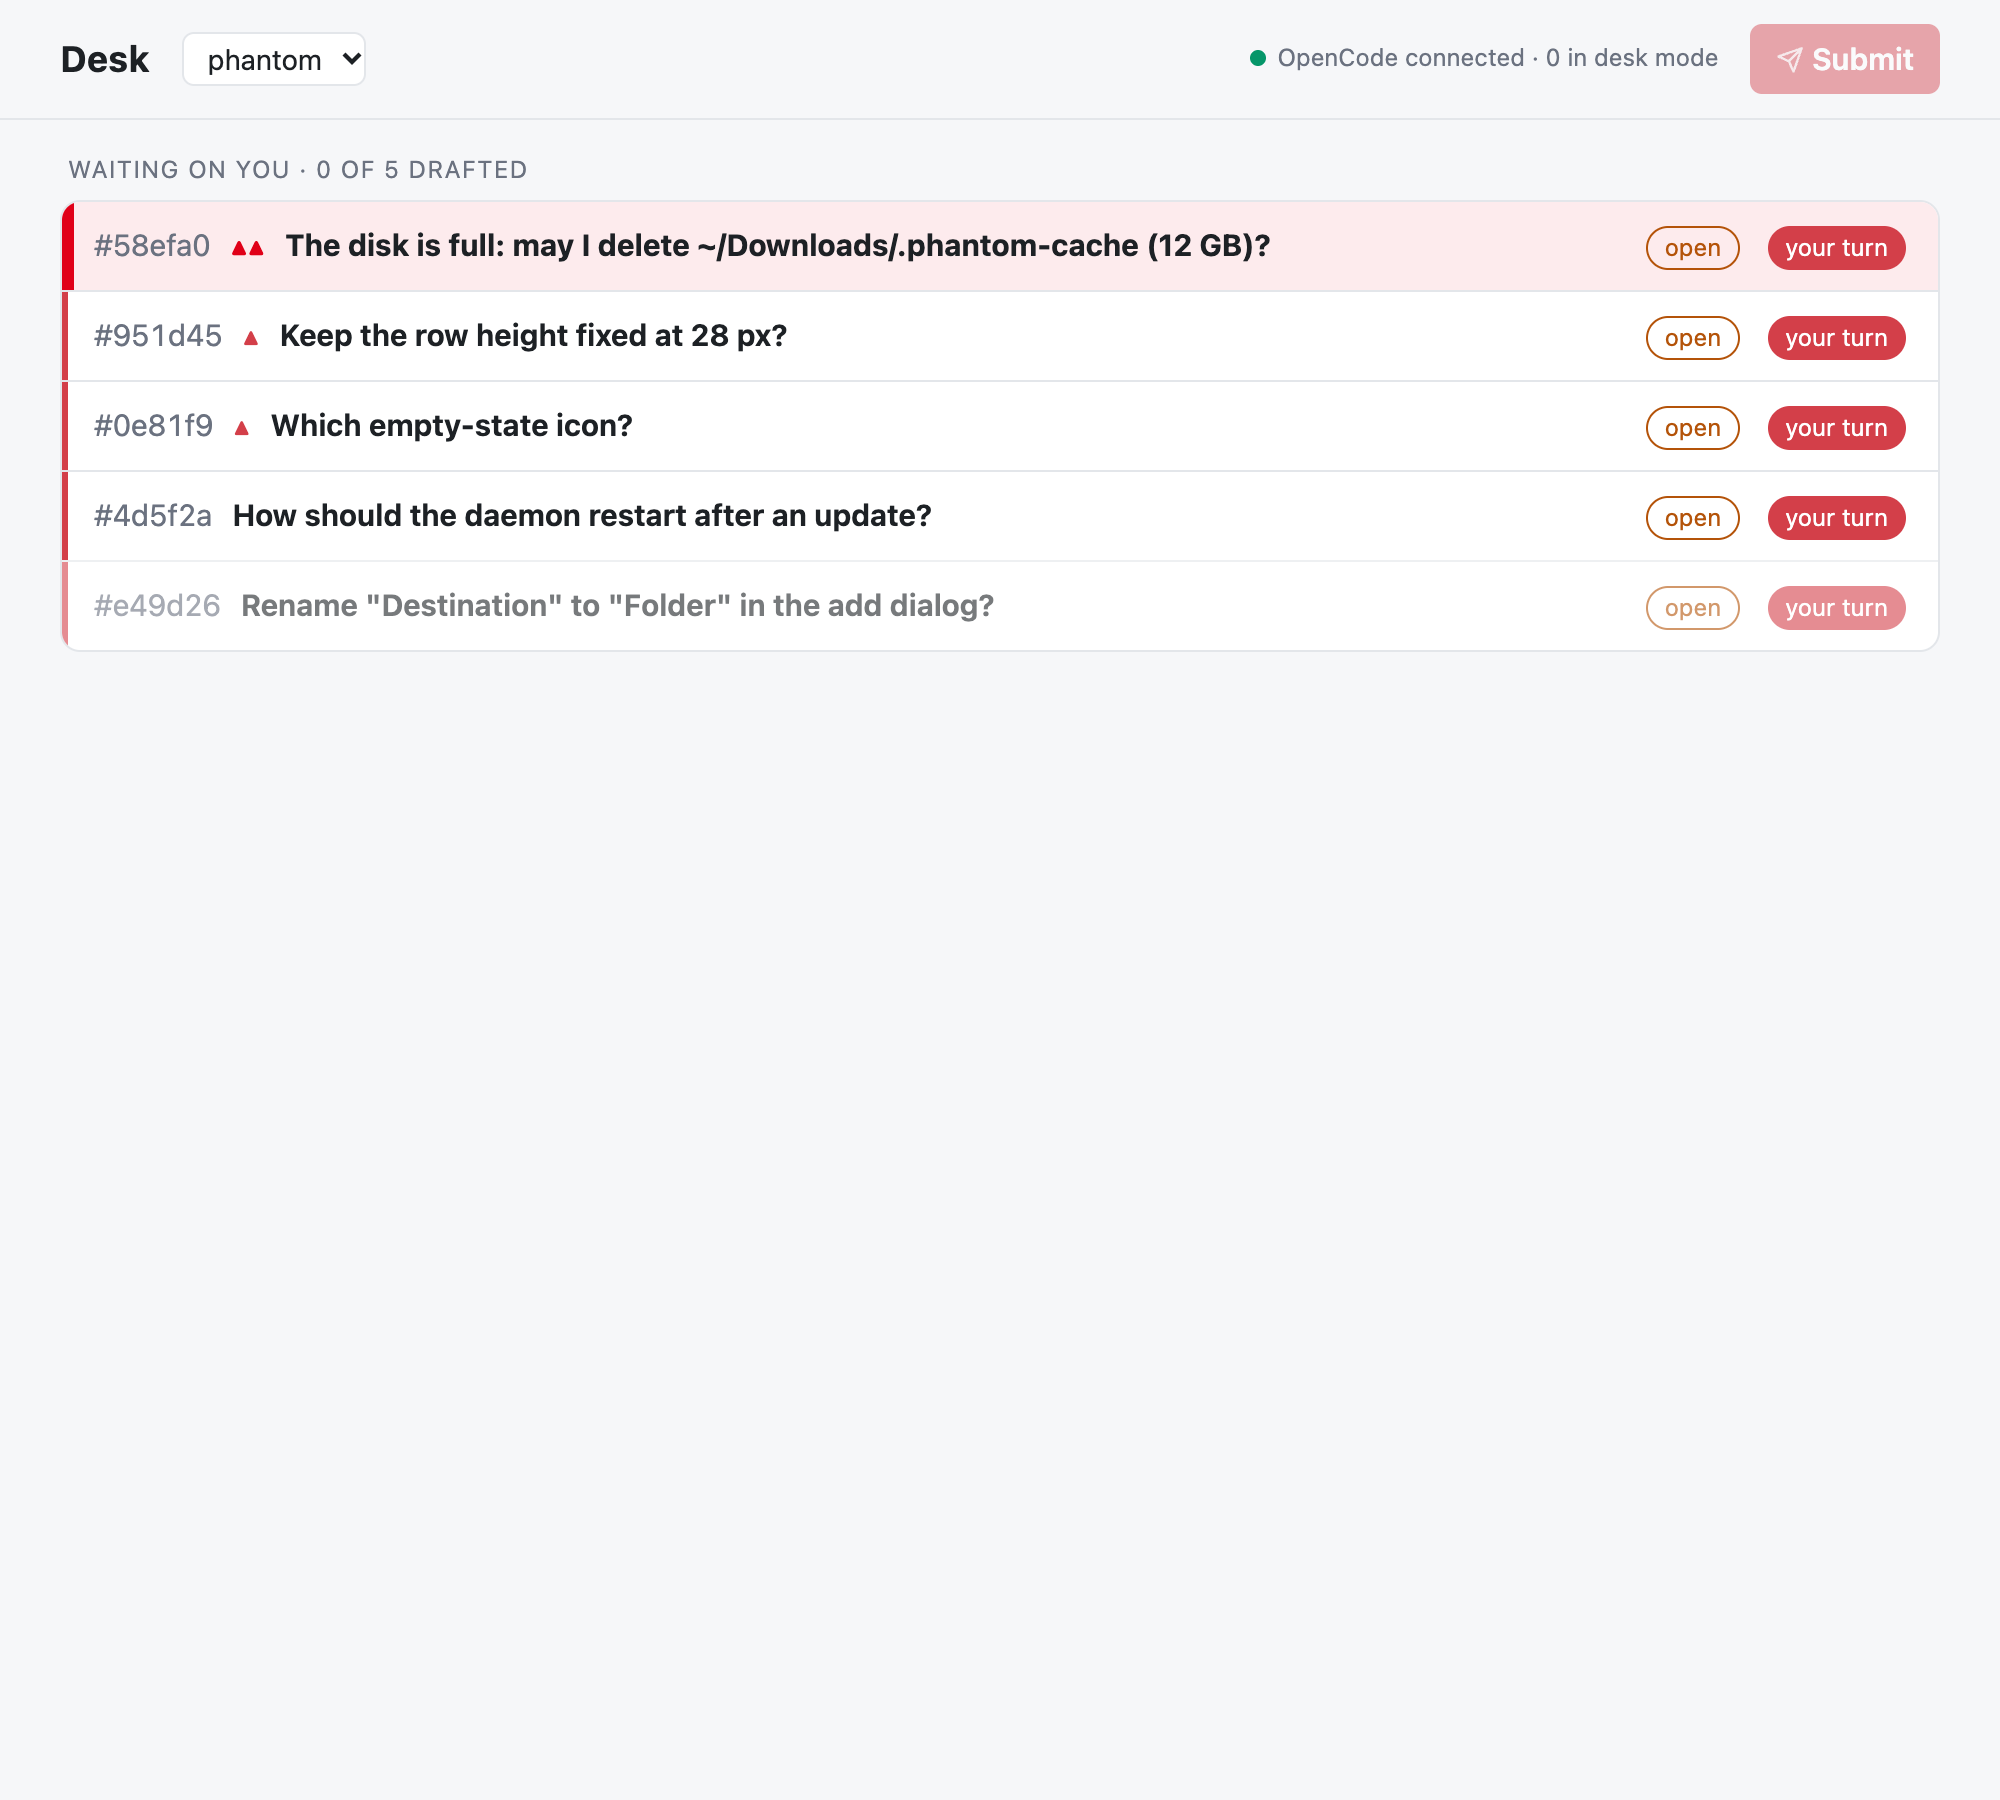
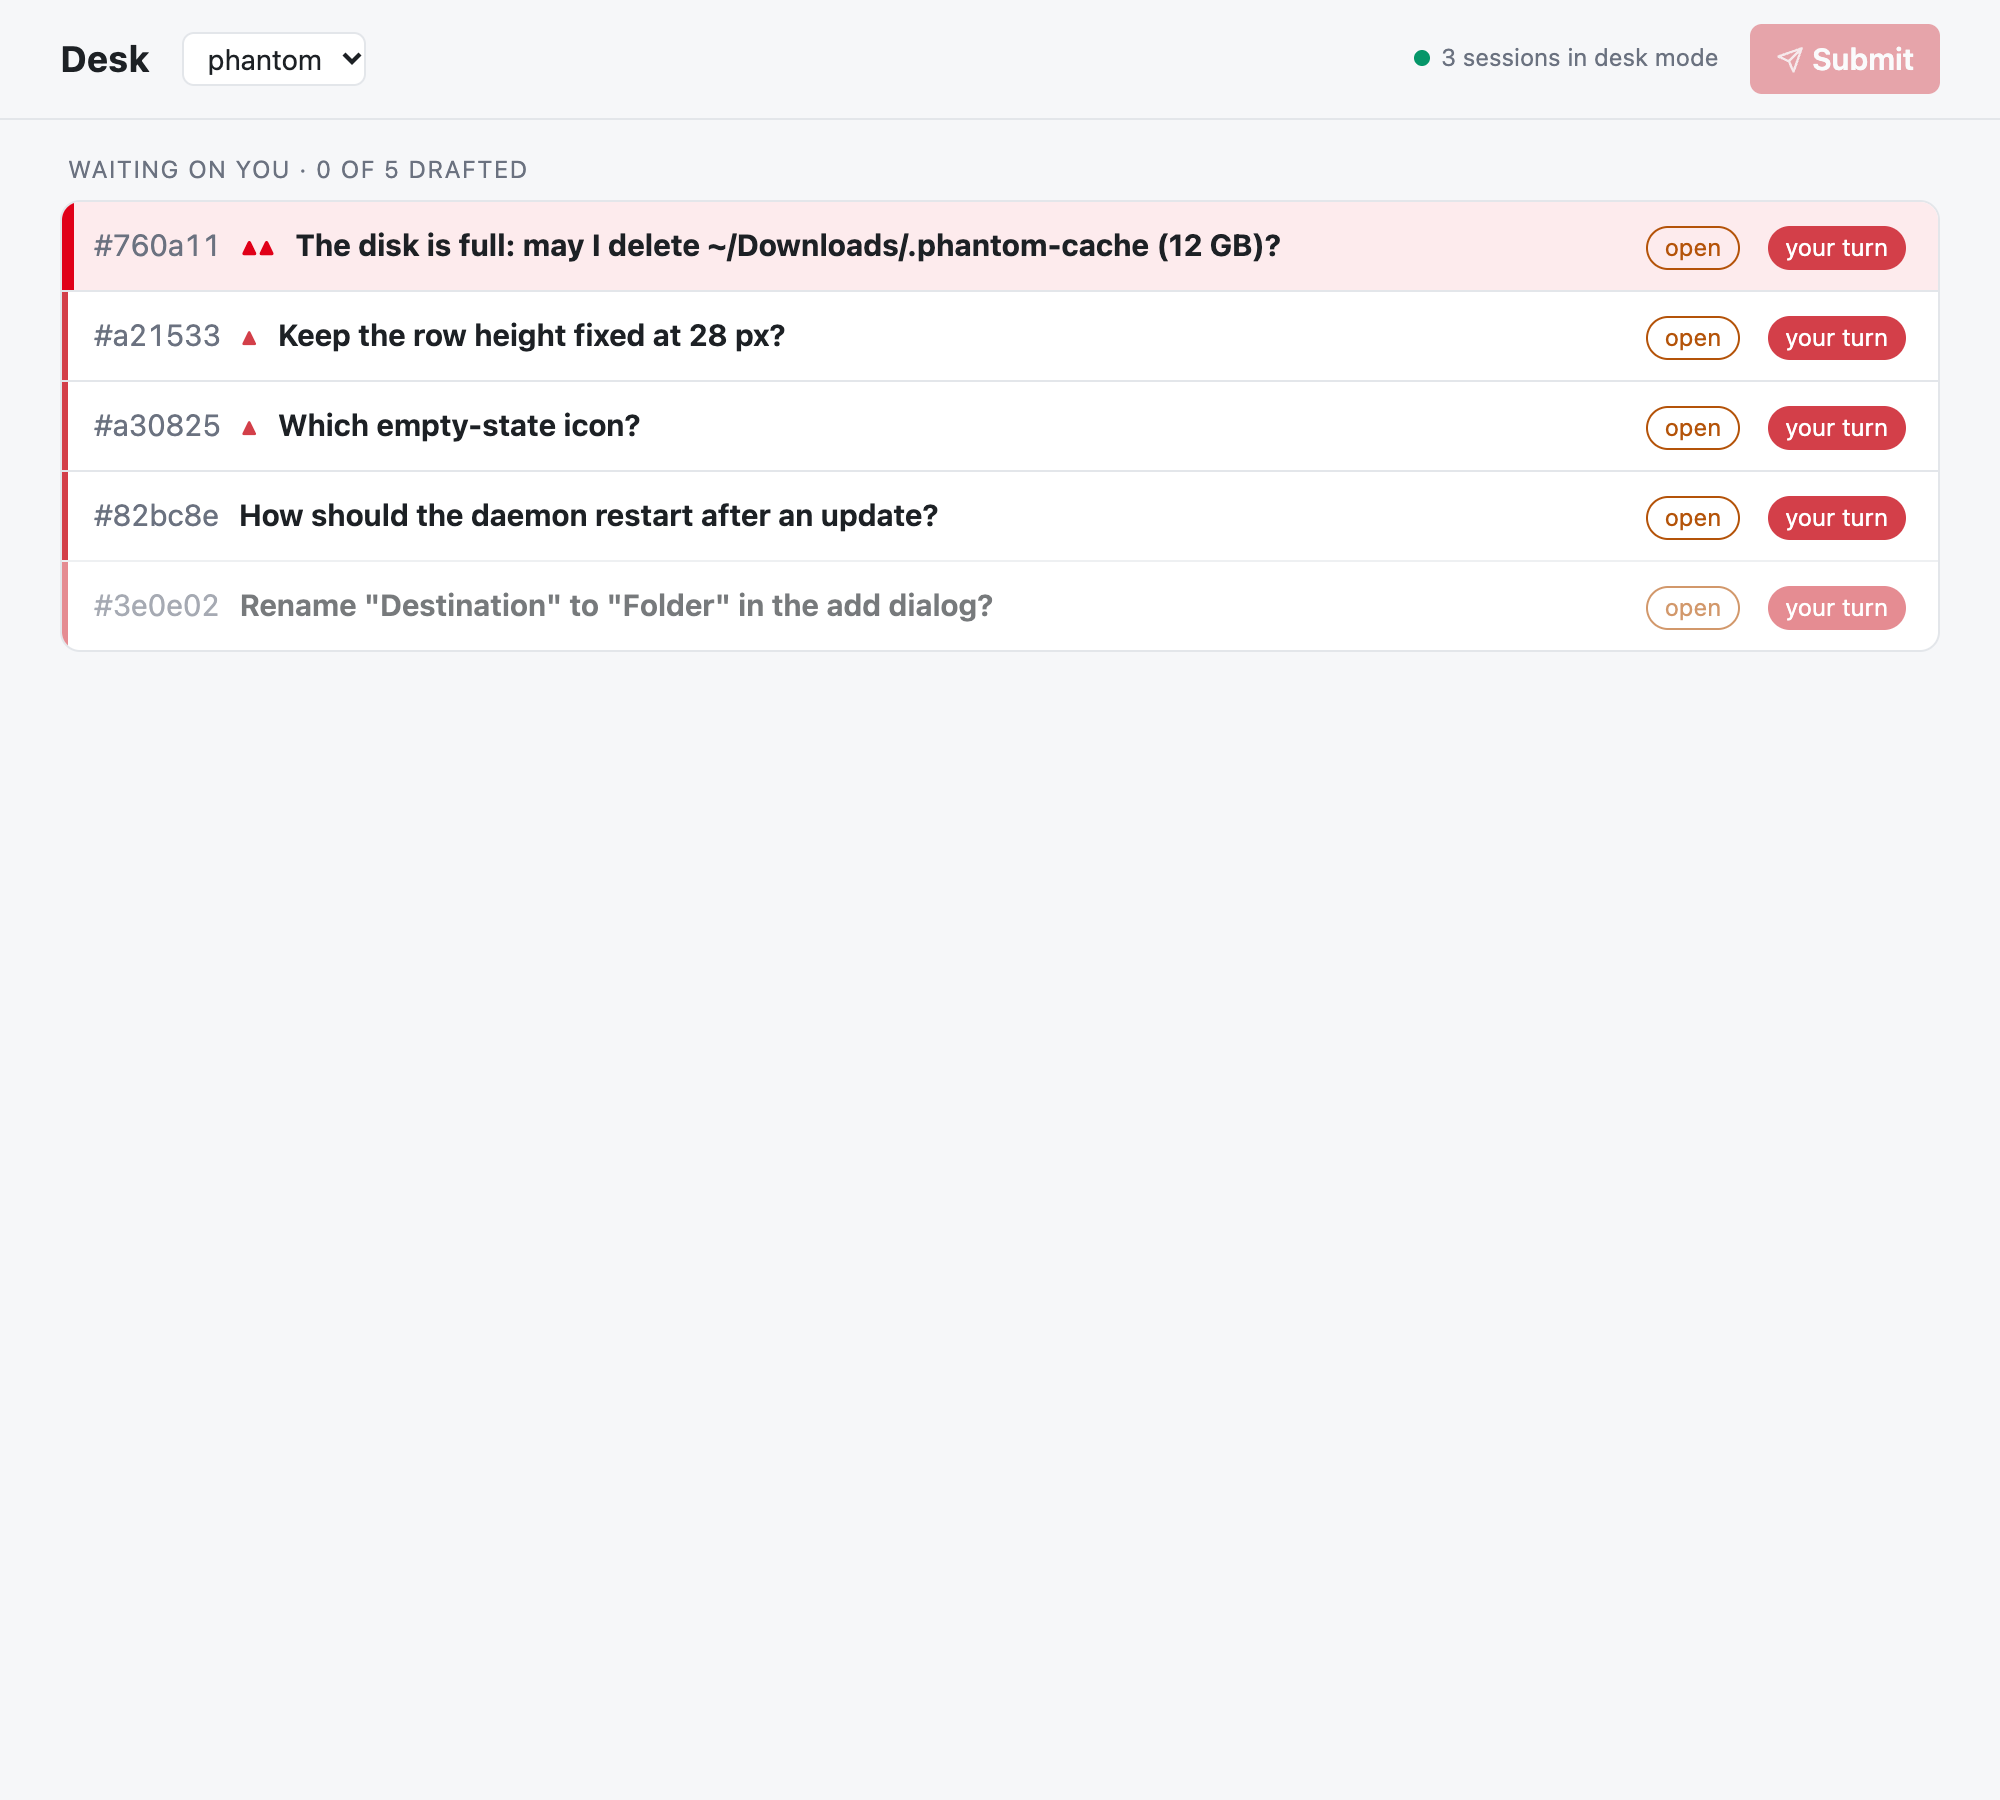
Plugin connects only while a session in its directory is in desk mode; header counts those sessions

diff --git a/src/plugin/index.ts b/src/plugin/index.ts
@@ -16,7 +16,10 @@ import { join } from "node:path";
 import { Plugin } from "@opencode/plugin/effect";
 import { Tool } from "@opencode/schema/tool";
 import * as Effect from "effect/Effect";
+import * as Exit from "effect/Exit";
 import * as Schema from "effect/Schema";
+import * as Scope from "effect/Scope";
+import * as Semaphore from "effect/Semaphore";
 import * as Stream from "effect/Stream";
 import { type Methods, protocol } from "../protocol";
 import * as Connection from "./connection";
@@ -36,7 +39,7 @@ export default Plugin.define({
 		Effect.gen(function* () {
 			const home = String(ctx.options.home ?? process.env.DESK_HOME ?? join(homedir(), ".local/share/desk")).replace(/^~(?=\/|$)/, homedir());
 			const port = String(ctx.options.port ?? process.env.DESK_PORT ?? 47400);
-			/** The sessions in desk mode here (`on/<id>` in the plugin's storage), forgetting deleted ones. */
+			/** The sessions in desk mode in this plugin instance's directory (`on/<id>` in the plugin's storage), forgetting deleted ones. */
 			const modes = Effect.gen(function* () {
 				const sessions: Array<string> = [];
 				for (let after: string | undefined; ; ) {
@@ -45,11 +48,20 @@ export default Plugin.define({
 					if (page.next === undefined) break;
 					after = page.next;
 				}
-				const gone = yield* Effect.filter(sessions, (id) => ctx.session.get({ sessionID: id as never }).pipe(Effect.as(false), Effect.catchIf(notFound, () => Effect.succeed(true)), Effect.orElseSucceed(() => false)));
-				yield* Effect.forEach(gone, (id) => ctx.storage.remove(`on/${id}`));
-				return sessions.filter((id) => !gone.includes(id));
+				const where = yield* Effect.forEach(sessions, (id) =>
+					ctx.session.get({ sessionID: id as never }).pipe(
+						Effect.map((session) => (session.location.directory === ctx.location.directory ? "here" : "elsewhere")),
+						Effect.catchIf(notFound, () => Effect.succeed("gone" as const)),
+						Effect.orElseSucceed(() => "elsewhere" as const),
+					),
+				);
+				yield* Effect.forEach(
+					sessions.filter((_, index) => where[index] === "gone"),
+					(id) => ctx.storage.remove(`on/${id}`),
+				);
+				return sessions.filter((_, index) => where[index] === "here");
 			});
-			const service = yield* Connection.make({
+			const options: Connection.Options = {
 				socket: join(home, "desk.sock"),
 				start: Connection.startService({ DESK_HOME: home, DESK_PORT: port }),
 				hello: { protocol, project: { id: ctx.location.project.id, directory: ctx.location.project.directory } },
@@ -64,10 +76,40 @@ export default Plugin.define({
 					prompt: ({ sessionID, id, text, delivery, files }) =>
 						ctx.session.prompt({ sessionID: sessionID as never, id: id as never, text, delivery, files: files.map((file) => ({ uri: file.uri, name: file.name })) }).pipe(Effect.as(null)),
 				},
-			});
+			};
+
+			// Connected (and so starting the service) only while a session in this directory is in desk mode: the page
+			// counts those sessions, and a plugin instance with none has nothing to ask or deliver.
+			const pluginScope = yield* Effect.scope;
+			const lock = yield* Semaphore.make(1);
+			let held: { scope: Scope.Closeable; connection: Connection.Connection } | undefined;
+			/** Connects, reports the sessions in desk mode, or hangs up, to match the storage. */
+			const sync = Semaphore.withPermits(
+				lock,
+				1,
+			)(
+				Effect.gen(function* () {
+					const mine = yield* modes;
+					if (mine.length === 0) {
+						if (held) yield* Scope.close(held.scope, Exit.void);
+						held = undefined;
+					} else if (held) yield* Effect.ignore(held.connection.request("modes", { sessions: mine }));
+					else {
+						const scope = yield* Scope.fork(pluginScope);
+						held = { scope, connection: yield* Scope.provide(Connection.make(options), scope) };
+					}
+				}),
+			);
+			yield* sync;
+			const service: Connection.Connection = {
+				request: (method, input) =>
+					held ? held.connection.request(method, input) : Effect.fail(new Connection.DeskError({ message: "Desk mode is off in this directory; the user turns it on with /desk-mode." })),
+				url: Effect.suspend(() => (held ? held.connection.url : Effect.fail(new Connection.DeskError({ message: "Desk mode is off in this directory." })))),
+			};
 			// The service's project cache drops a session that moves, so its entries follow it.
 			yield* ctx.event.subscribe({ types: ["session.moved"] }).pipe(
-				Stream.runForEach((event) => Effect.ignore(service.request("moved", { session: event.data.sessionID }))),
+				// A session moving in or out of this directory may connect or hang up this instance, too.
+				Stream.runForEach((event) => Effect.andThen(Effect.ignore(service.request("moved", { session: event.data.sessionID })), sync)),
 				Effect.ignore,
 				Effect.forkScoped,
 			);
@@ -105,13 +147,13 @@ export default Plugin.define({
 							const now = (yield* ctx.storage.get(key(rootID))) !== true;
 							if (now) yield* ctx.storage.set(key(rootID), true);
 							else yield* ctx.storage.remove(key(rootID));
+							yield* sync;
 							const url = now ? (yield* service.request("page", { session: rootID })).url : undefined;
 							const text = url
 								? `Desk mode is on for this session. Every question, decision or review you need from the user goes on the desk (desk_ask), not in chat, for this session and its subagents: in chat, questions and answers get lost as they come in out of order. A critical one may also be mentioned in chat, by its title. The user answers on <${url}>\n`
 								: "Desk mode is off for this session: the desk_* tools are gone; ask the user in chat.";
 							// The TUI shows a synthetic message by its description only (none: not at all); the text is for the agent.
 							const description = url ? `Desk mode on: ${url}` : "Desk mode off";
-							yield* Effect.ignore(Effect.flatMap(modes, (sessions) => service.request("modes", { sessions })));
 							yield* ctx.session.synthetic({ sessionID, text, description, resume: false });
 						}),
 				});

diff --git a/page/main.tsx b/page/main.tsx
@@ -543,9 +543,9 @@ function App() {
 					<span class="spacer" />
 					<span
 						class={`connection${state.view!.opencode === 0 ? " none" : ""}`}
-						title="Answers go out through connected OpenCode instances, which also tell which project each question is in. The count is sessions with desk mode on."
+						title="Sessions with desk mode on (/desk-mode). Answers go out through their OpenCode; with none, answers wait until one is on again."
 					>
-						{state.view!.opencode === 0 ? "No OpenCode connected" : `OpenCode connected · ${state.view!.deskMode} in desk mode`}
+						{state.view!.opencode === 0 ? "No session in desk mode" : `${state.view!.deskMode} ${state.view!.deskMode === 1 ? "session" : "sessions"} in desk mode`}
 					</span>
 					<Show when={!state.online}>
 						<span class="offline">reconnecting…</span>
@@ -558,7 +558,7 @@ function App() {
 			<main>
 				<Show when={state.view!.opencode === 0 || state.view!.project?.guessed || (project() === undefined && state.view!.projects.some((other) => other.guessed))}>
 					<div class="notice">
-						<Show when={state.view!.opencode === 0}>No OpenCode is connected: answers wait as <em>not delivered</em> until one is. </Show>
+						<Show when={state.view!.opencode === 0}>No session is in desk mode: answers wait as <em>not delivered</em> until one is. </Show>
 						Projects marked <span class="label">folder</span> are guessed from the question's folder: no connected OpenCode knows their session yet.
 					</div>
 				</Show>

diff --git a/tests/plugin.test.ts b/tests/plugin.test.ts
@@ -112,6 +112,8 @@ afterAll(async () => {
 
 test("off by default: a session sees no desk tools until /desk-mode turns it on, for its subagents too", async () => {
 	expect(await first.visible("ses_main")).toEqual(["read"]);
+	// With no session in desk mode, the plugin doesn't connect, so nothing has started the service.
+	expect(await answering(join(home, "desk.sock"))).toBe(false);
 	await first.command("desk-mode", "ses_main");
 	expect(first.storage.get("on/ses_main")).toBe(true);
 	expect(first.synthetic.at(-1)!.text).toMatch(/Desk mode is on for this session.*http:\/\/127\.0\.0\.1:\d+\/projects\//);
@@ -171,6 +173,11 @@ test("/desk-mode again turns it off", async () => {
 	expect(first.synthetic.at(-1)!.text).toContain("Desk mode is off");
 	expect(first.synthetic.at(-1)!.description).toBe("Desk mode off");
 	expect(await first.visible("ses_main")).toEqual(["read"]);
+	// Its last session in desk mode gone, the first instance hangs up; the second still has ses_main on.
+	const page = JSON.parse(await readFile(join(home, "service.json"), "utf8")).url as string;
+	const view = async () => Array.from(await rpc(page, (desk) => desk.view({}).pipe(Stream.take(1), Stream.runCollect)))[0]!;
+	await eventually(async () => (await view()).opencode === 1);
+	expect(await view()).toMatchObject({ deskMode: 1 });
 });
 
 test("the service exits once every plugin instance has gone", async () => {

diff --git a/tests/support/service.ts b/tests/support/service.ts
@@ -45,7 +45,7 @@ export async function startService(options: { store?: string; idle?: number; fak
 		/** A plugin instance in the OpenCode `opencode` (default: one that knows no sessions), in `project`. */
 		plugin(opencode: FakeServer = fake.server(`blank-${++blank}`), project = { id: "prj_default", directory: "/work/default" }) {
 			const held = Effect.runSync(Scope.make());
-			const live = Effect.runSync(Scope.provide(Connection.make({ socket, start: Effect.void, hello: { protocol, project }, serve: fake.serve(opencode), timeout: 1000 }), held));
+			const live = Effect.runSync(Scope.provide(Connection.make({ socket, start: Effect.void, hello: { protocol, project }, modes: Effect.sync(() => [...opencode.sessions.keys()]), serve: fake.serve(opencode), timeout: 1000 }), held));
 			const connection = {
 				request: <M extends Method>(method: M, input: Methods[M]["input"]) => Effect.runPromise(live.request(method, input)),
 				url: () => Effect.runPromise(live.url),

diff --git a/demo/run.ts b/demo/run.ts
@@ -120,7 +120,7 @@ try {
 	};
 	await tab.goto(page("prj_phantom"));
 	await settle(tab);
-	await tab.waitForSelector("text=No OpenCode connected");
+	await tab.waitForSelector("text=No session in desk mode");
 	await snap(16);
 	await tab.click(`.list a[href="/projects/prj_phantom/questions/${rows.id}"]`);
 	await settle(tab);

diff --git a/README.md b/README.md
@@ -63,9 +63,10 @@ flowchart LR
   hash of the schemas. On `hello` with another version, a service whose contract files changed on disk since it
   started retires (the plugin starts the new one); otherwise the plugin is told to `/reload`. It exits 10 minutes
   after its last client (plugin connection or open page) goes.
-- **A plugin instance** (`src/plugin/`, an Effect plugin: `@opencode/plugin/effect`) is a thin, stateless client. When
-  it loads it connects to the socket, starting the service detached if nobody answers (log: `<store>/service.log`),
-  says `hello`, and holds the connection, reconnecting (and restarting the service) if it drops. It is also the
+- **A plugin instance** (`src/plugin/`, an Effect plugin: `@opencode/plugin/effect`) is a thin, stateless client, one per
+  directory OpenCode works in. While a session in its directory is in desk mode, it connects to the socket, starting
+  the service detached if nobody answers (log: `<store>/service.log`), says `hello`, reports those sessions (`modes`),
+  and holds the connection; it hangs up when the last one turns desk mode off. Connected, it reconnects (restarting the service) if the connection drops. It is also the
   service's only way into OpenCode: on that connection the service asks it to look sessions up and to prompt them, and
   it reports `session.moved`. So the service needs no OpenCode endpoint or password.
 - **Delivery**: the user's text is written to its entries as an outbox (an OpenCode message id, fixed up front), then
@@ -76,7 +77,7 @@ flowchart LR
   root session's `projectID` (through a plugin) and remembers it in memory only. A session is asked again when it
   moves, and every session when a plugin connects (catching moves missed meanwhile); while OpenCode is away, what was
   known stays. A session no connected OpenCode knows goes under its folder, marked as a guess. The page's header says
-  whether OpenCode is connected and how many sessions are in desk mode (each plugin reports its OpenCode's). The page shows one project at a time (`/projects/<id>`, an entry at
+  how many sessions are in desk mode. An answer for a session whose OpenCode has nothing in desk mode waits until something is. The page shows one project at a time (`/projects/<id>`, an entry at
   `/projects/<id>/questions/<entry id>`); `/` lists the projects.
 
 | Module | What it is |
